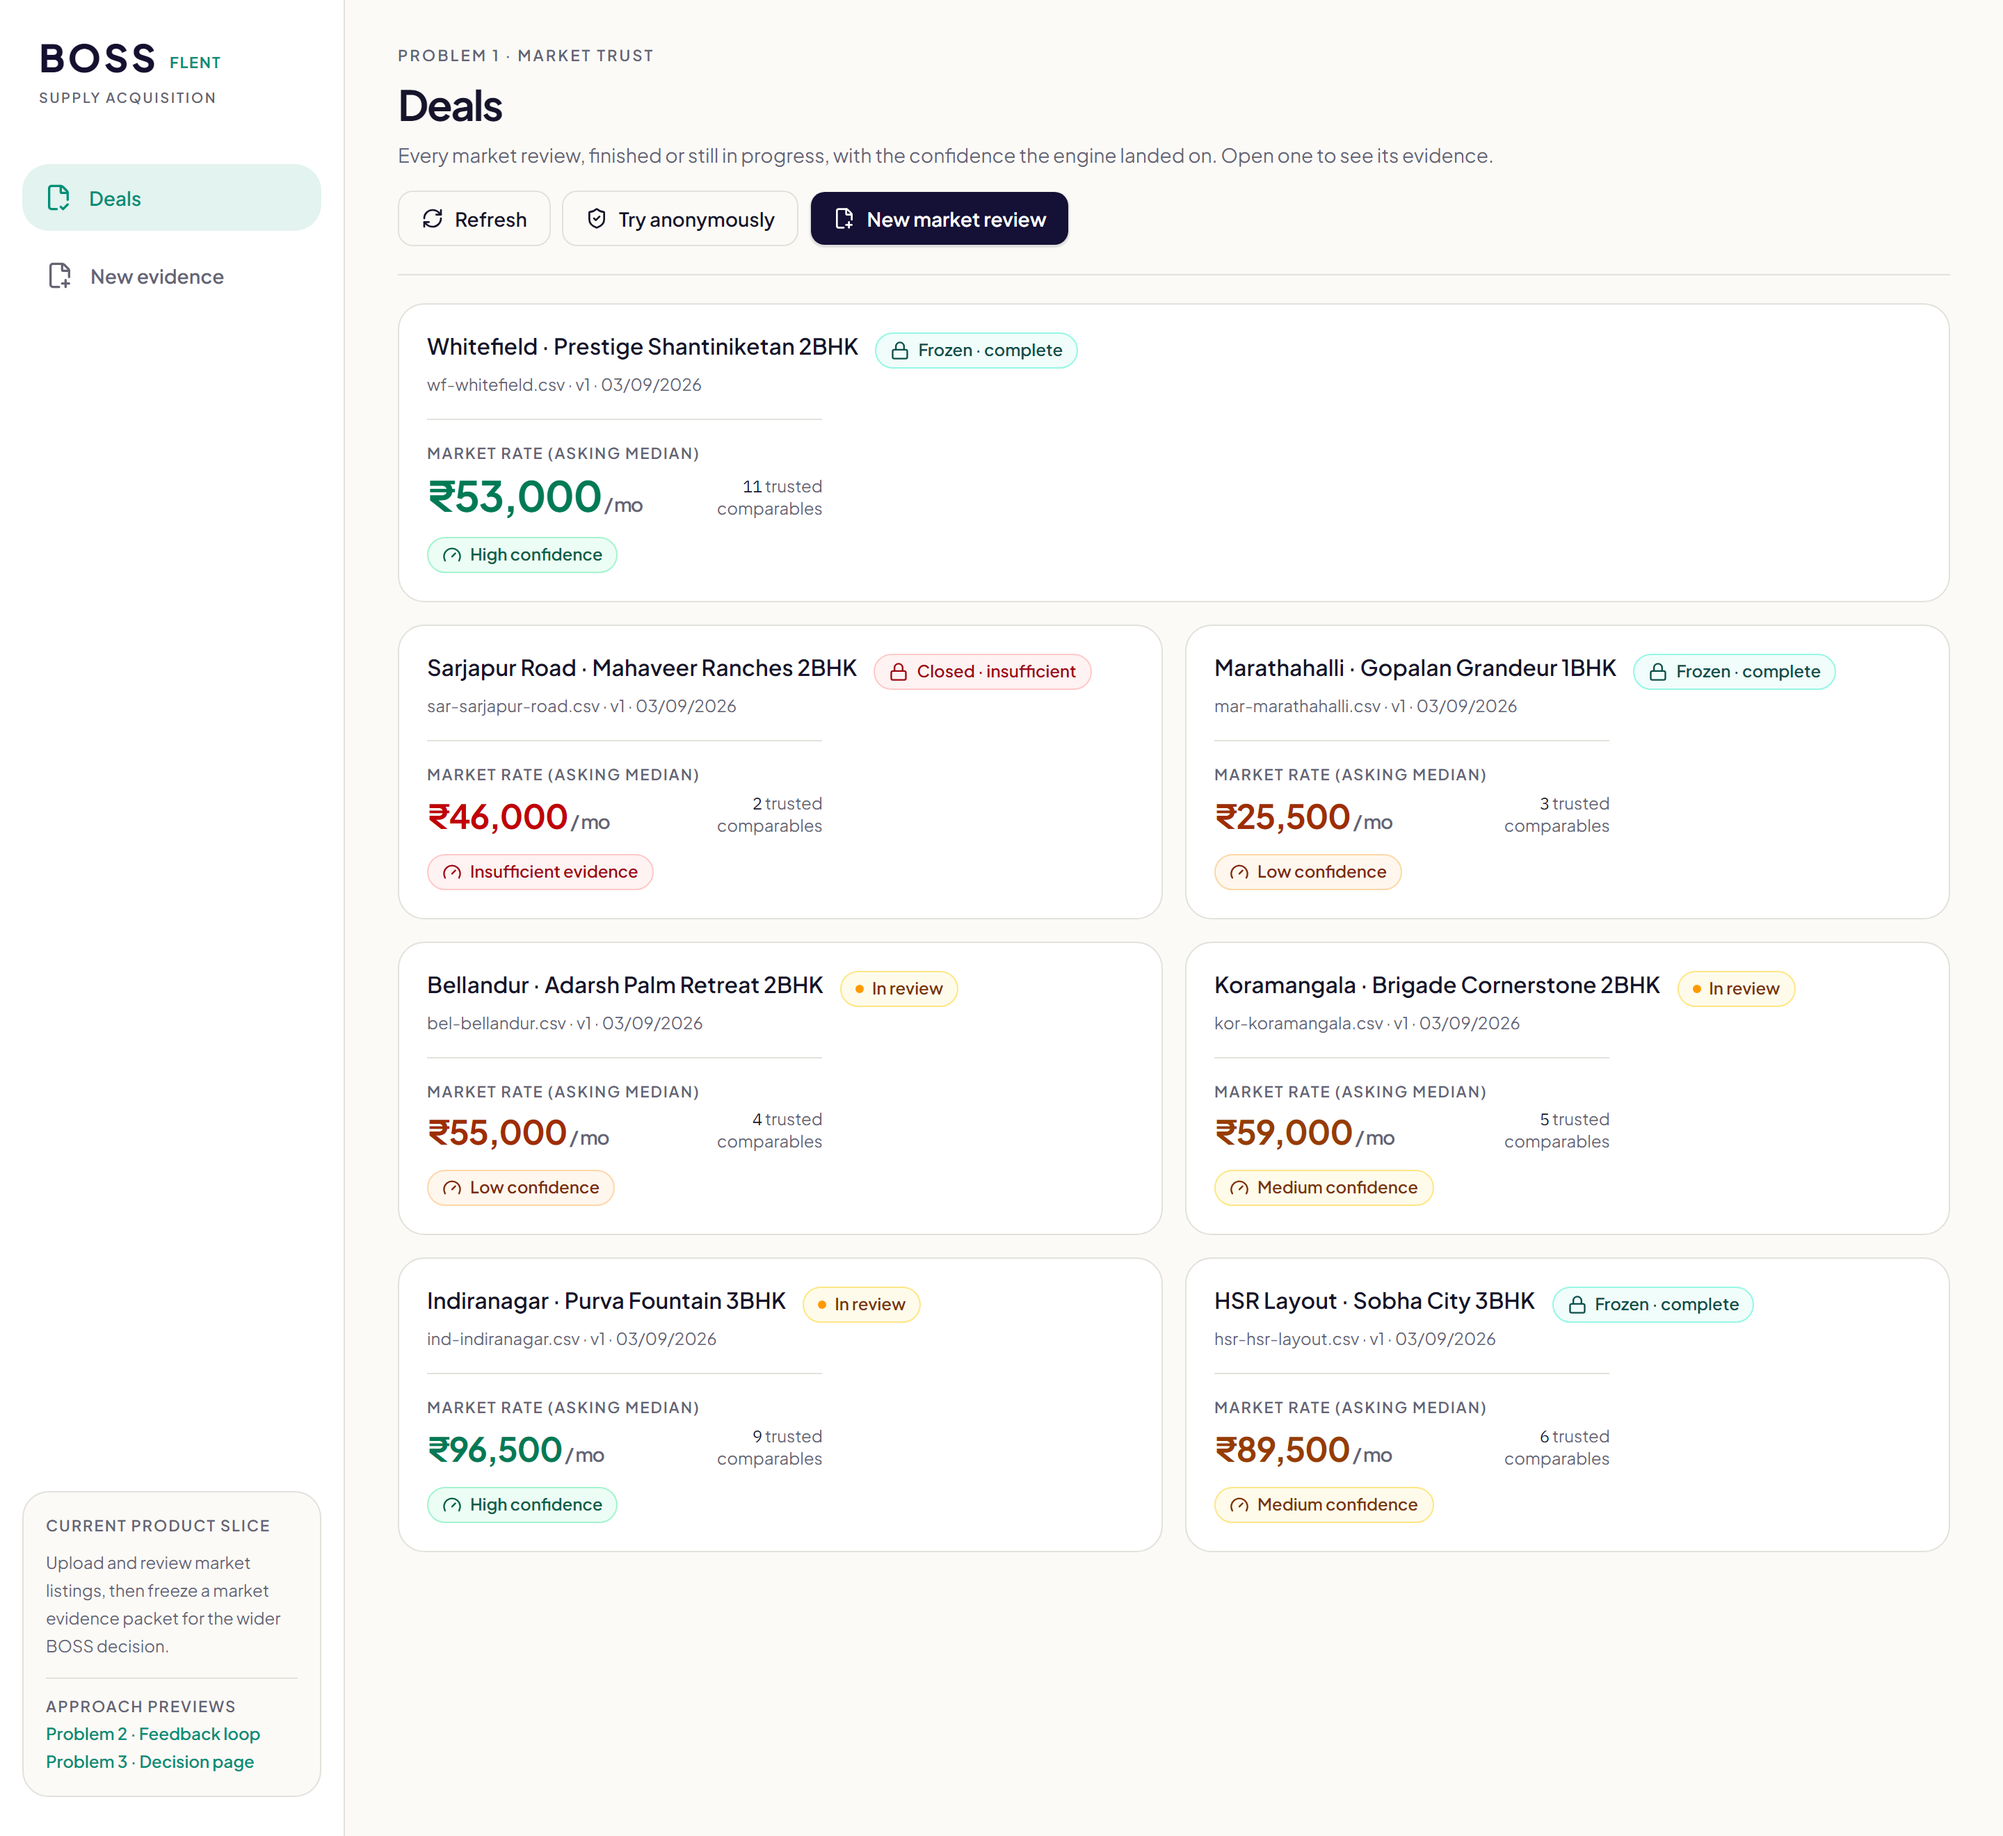
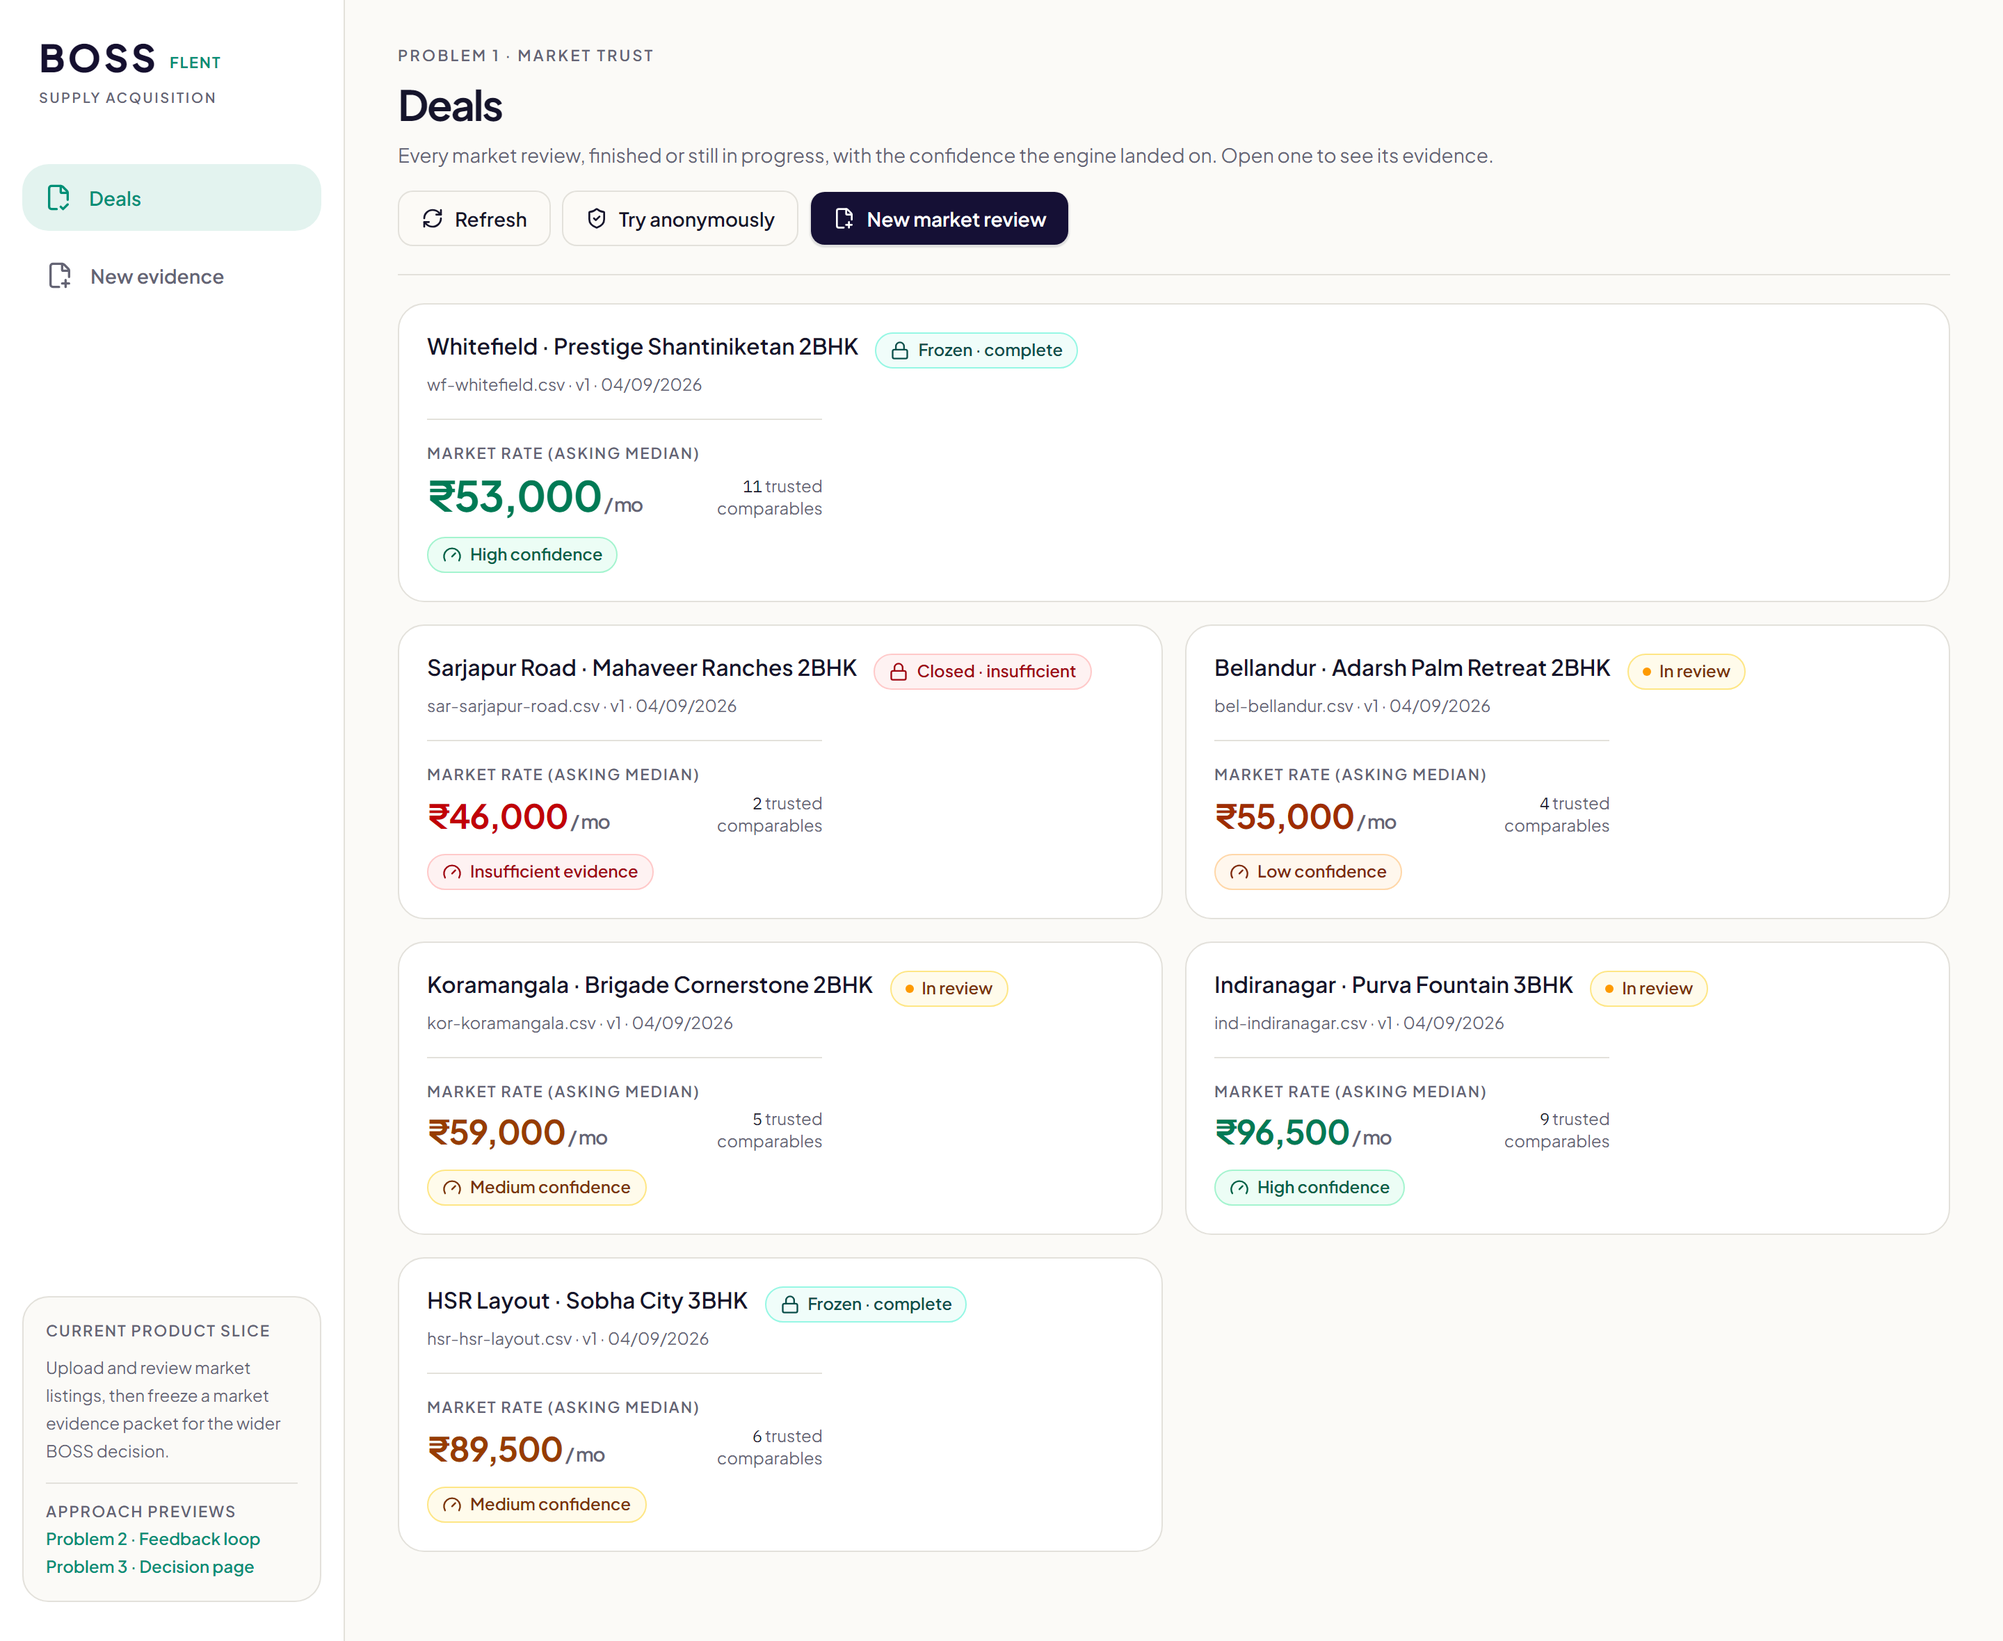
Deals: hide untitled reviews, show a clean set of six demo runs
- Filter the deals list to exclude any "Untitled" review and cap it at six, so the
  workspace shows a clean curated set instead of leftover untitled test runs. This
  is a display filter, not a deletion, so no data is lost.
- Trim the seeded demo to six deals with a full spread: HIGH x2, MEDIUM x2, LOW,
  INSUFFICIENT, across three complete and three in-progress reviews.

lint + tsc clean; verified six clean cards on a fresh local D1.

diff --git a/lib/demo-seed.ts b/lib/demo-seed.ts
@@ -80,13 +80,6 @@ const SPECS: Spec[] = [
     noise: 'flagged', complete: false,
   },
   {
-    key: 'mar', dealName: 'Marathahalli · Gopalan Grandeur 1BHK',
-    society: 'Gopalan Grandeur', societyPrefix: 'Gopalan Grandeur',
-    locality: 'Marathahalli', bhk: 1, area: 650, furnishing: 'unfurnished',
-    rentCenter: 27000, goodCount: 3, portals: 2, spread: 1500,
-    noise: 'clean', complete: true,
-  },
-  {
     key: 'sar', dealName: 'Sarjapur Road · Mahaveer Ranches 2BHK',
     society: 'Mahaveer Ranches', societyPrefix: 'Mahaveer Ranches',
     locality: 'Sarjapur Road', bhk: 2, area: 1080, furnishing: 'semi-furnished',

diff --git a/lib/storage.ts b/lib/storage.ts
@@ -265,7 +265,8 @@ export async function listRuns() {
        JOIN deals d ON d.id=r.deal_id
        JOIN uploads u ON u.id=r.upload_id
        LEFT JOIN market_review_closures c ON c.run_id=r.id
-       ORDER BY r.created_at DESC LIMIT 30`,
+       WHERE d.name NOT LIKE 'Untitled%'
+       ORDER BY r.created_at DESC LIMIT 6`,
     )
     .all<Record<string, unknown>>();
   return result.results.map((run) => {
